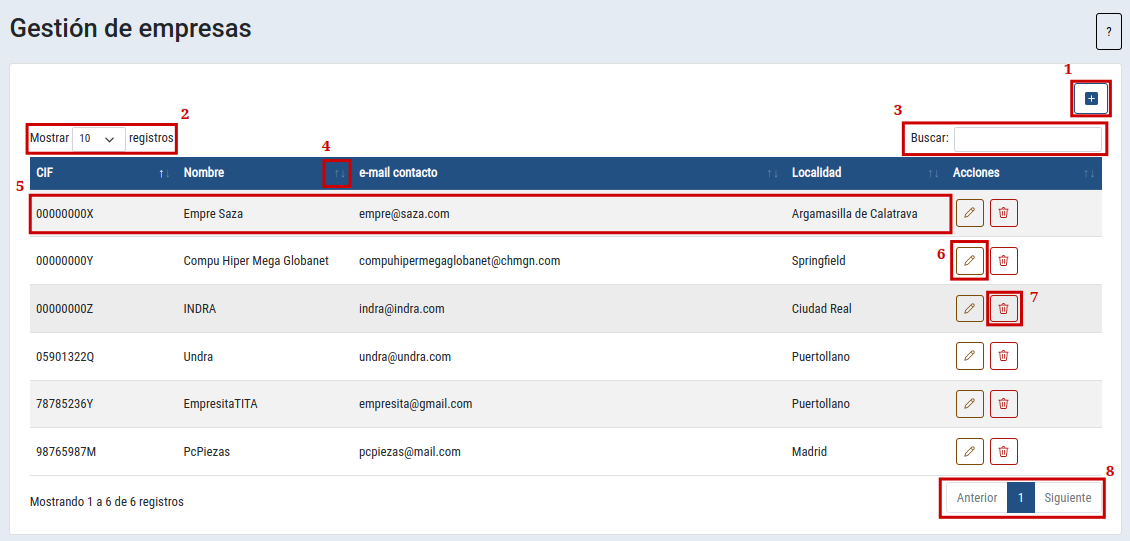
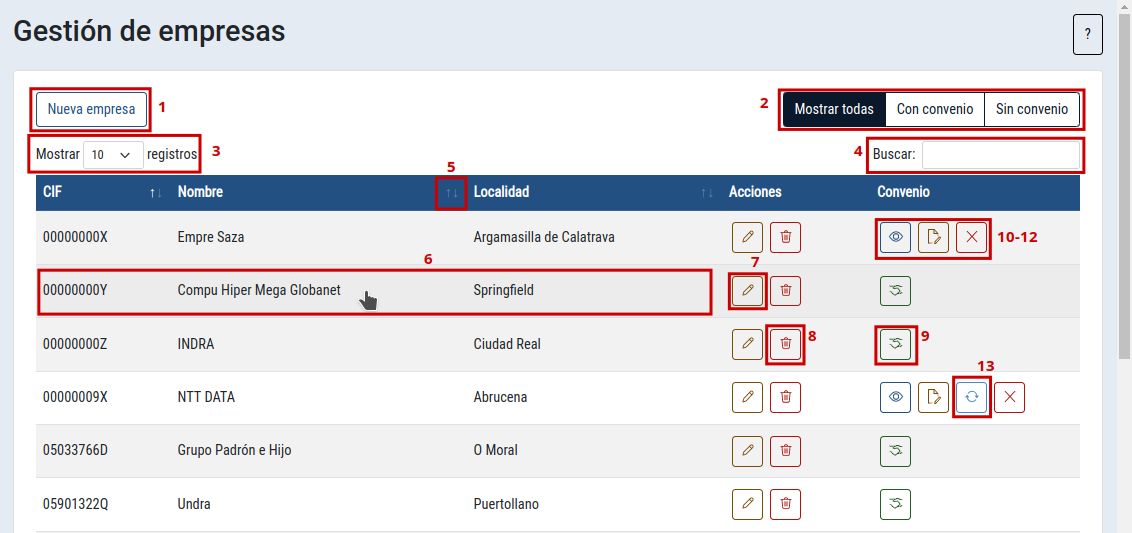
Manuales registro y crud actualizados

diff --git a/src/app/modules/manuales/manual-gestion-empresas/manual-gestion-empresas.component.html b/src/app/modules/manuales/manual-gestion-empresas/manual-gestion-empresas.component.html
@@ -25,7 +25,12 @@
       </div>
     </li>
     <li class="list-group-item">
-      <h2 class="fs-4 text-info">2. Cantidad de registros a mostrar</h2>
+      <h2 class="fs-4 text-info">2. Filtros según convenio</h2>
+      <p>Puede clickear en cualquiera de los tres botones de la esquina superior derecha para mostrar todas las
+        empresas, sólo las que tienen convenio con su centro o sólo las que no lo tienen</p>
+    </li>
+    <li class="list-group-item">
+      <h2 class="fs-4 text-info">3. Cantidad de registros a mostrar</h2>
       <div class="d-flex justify-content-between align-items-center">
         <div>
           <p>Clickee sobre el desplegable para seleccionar cuántos registros quiere ver en cada página</p>
@@ -36,7 +41,7 @@
       </div>
     </li>
     <li class="list-group-item">
-      <h2 class="fs-4 text-info">3. Búsqueda por cualquier campo</h2>
+      <h2 class="fs-4 text-info">4. Búsqueda por cualquier campo</h2>
       <p>Busque empresas registradas usando la barra de búsquedas en la parte superior derecha de la tabla</p>
       <img src="/assets/Manuales/gestion-empresas/busqueda.gif"
         alt="GIF que ejemplifica la búsqueda en la tabla de gestión de empresas"
@@ -45,7 +50,7 @@
       </p>
     </li>
     <li class="list-group-item">
-      <h2 class="fs-4 text-info">4. Ordenar según campo</h2>
+      <h2 class="fs-4 text-info">5. Ordenar según campo</h2>
       <p>Puede ordenar las empresas en orden ascendente o descendente de cualquiera de los campos de la tabla clickeando
         sobre el título de la columna</p>
       <img src="/assets/Manuales/gestion-empresas/screenshot_03.png"
@@ -57,14 +62,14 @@
         class="img-fluid me-3 border border-dark">
     </li>
     <li class="list-group-item">
-      <h2 class="fs-4 text-info">5. Ver empresa en detalle</h2>
+      <h2 class="fs-4 text-info">6. Ver empresa en detalle</h2>
       <p>Clickee sobre una fila de la tabla para ver los datos de la empresa correspondiente en detalle</p>
       <img src="/assets/Manuales/gestion-empresas/screenshot_05.png"
         alt="Captura de pantalla que muestra el cursor sobre una fila de la tabla"
         class="img-fluid me-3 border border-dark">
     </li>
     <li class="list-group-item">
-      <h2 class="fs-4 text-info">6. Editar empresa</h2>
+      <h2 class="fs-4 text-info">7. Editar empresa</h2>
       <div class="d-flex justify-content-between align-items-center">
         <img src="/assets/Manuales/gestion-empresas/screenshot_06.png"
           alt="Captura de pantalla con el botón para editar una empresa" class="img-fluid me-3">
@@ -77,7 +82,7 @@
       </div>
     </li>
     <li class="list-group-item">
-      <h2 class="fs-4 text-info">7. Eliminar empresa</h2>
+      <h2 class="fs-4 text-info">8. Eliminar empresa</h2>
       <div class="d-flex justify-content-between align-items-center">
         <img src="/assets/Manuales/gestion-empresas/screenshot_07.png"
           alt="Captura de pantalla con el botón para eliminar una empresa" class="img-fluid me-3">
@@ -89,8 +94,80 @@
       </div>
     </li>
     <li class="list-group-item">
-      <h2 class="fs-4 text-info">8. Navegar por las páginas de datos</h2>
-      <p>Utilice los botones de la esquina inferior derecha de la pantalla para navegar por las páginas de datos</p>
+      <h2 class="fs-4 text-info">9. Hacer convenio o acuerdo</h2>
+      <div class="d-flex justify-content-between align-items-center mb-3">
+        <img src="/assets/Manuales/gestion-empresas/screenshot_08.png"
+          alt="Captura de pantalla con el botón para hacer convenio o acuerdo" class="img-fluid me-3">
+        <div>
+          <p>Clickee sobre el botón de convenio (manos estrechándose) para establecer los términos del convenio entre su
+            centro de estudios y la empresa correspondiente</p>
+          <p class="m-0">Se abrirá una ventana modal que le permitirá introducir los datos del convenio y subir el Anexo
+            0 o 0A pertinente</p>
+        </div>
+      </div>
+      <p>En la parte superior del modal puede introducir el número de convenio (consúltelo con su centro) y la fecha de
+        inicio del mismo. El resto de campos se calcularán automáticamente.</p>
+      <img src="/assets/Manuales/gestion-empresas/convenio_01.png"
+        alt="Captura de pantalla: modal para hacer convenio con los datos desplegados"
+        class="img-fluid me-3 border border-dark mb-2">
+      <p>Si no dispone del Anexo 0 o 0A, deje la casilla "Dispongo del documento" desmarcada y rellene el formulario.
+        Las secciones del centro de estudios y de la empresa aparecerán rellenas con los datos del sistema, pero puede
+        editarlas en caso de que sea necesario.</p>
+      <img src="/assets/Manuales/gestion-empresas/convenio_02.png"
+        alt="Captura de pantalla: modal para hacer convenio en modo subir fichero"
+        class="img-fluid me-3 border border-dark mb-2">
+      <p>Si dispone del documento, marque la casilla "Dispongo del documento" y suba el archivo en formato PDF</p>
+      <p class="mt-1">Independientemente de la opción que elija, podrá guardar los cambios usando el botón en la parte
+        inferior del modal.</p>
+      <p class="mt-1">Si ha generado el documento, podrá descargarlo tras finalizar el proceso.</p>
+    </li>
+    <li class="list-group-item">
+      <h2 class="fs-4 text-info">10. Visualizar convenio o acuerdo</h2>
+      <div class="d-flex justify-content-between align-items-center mb-3">
+        <img src="/assets/Manuales/gestion-empresas/screenshot_09.png"
+          alt="Captura de pantalla con el botón para visualizar el convenio o acuerdo" class="img-fluid me-3">
+        <div>
+          <p>Clickee sobre el botón de visualización (ojo) para ver los términos del convenio entre su
+            centro de estudios y la empresa correspondiente y poder descargar el anexo.</p>
+          <p class="m-0">Si el documento no se descarga, vuelva a generarlo (ver editar convenio o acuerdo)</p>
+        </div>
+      </div>
+    </li>
+    <li class="list-group-item">
+      <h2 class="fs-4 text-info">11. Editar convenio o acuerdo</h2>
+      <div class="d-flex justify-content-between align-items-center mb-3">
+        <img src="/assets/Manuales/gestion-empresas/screenshot_10.png"
+          alt="Captura de pantalla con el botón para editar el convenio o acuerdo" class="img-fluid me-3">
+        <div>
+          <p>Clickee sobre el botón de edición de documento (folio con lápiz) para editar el convenio entre su
+            centro de estudios y la empresa correspondiente, con opción de re-subir el documento.</p>
+          <p class="m-0">La ventana modal tiene el mismo funcionamiento que la de hacer convenio.</p>
+        </div>
+      </div>
+    </li>
+    <li class="list-group-item">
+      <h2 class="fs-4 text-info">12. Anular convenio o acuerdo</h2>
+      <div class="d-flex justify-content-between align-items-center mb-3">
+        <img src="/assets/Manuales/gestion-empresas/screenshot_11.png"
+          alt="Captura de pantalla con el botón para anular el convenio o acuerdo" class="img-fluid me-3">
+        <div>
+          <p>Clickee sobre el botón con un aspa para anular el convenio entre su
+            centro de estudios y la empresa correspondiente, previa confirmación.</p>
+          <p class="m-0">Esto eliminará el convenio del sistema y deshabilitará el anexo correspondiente.</p>
+        </div>
+      </div>
+    </li>
+    <li class="list-group-item">
+      <h2 class="fs-4 text-info">13. Renovar convenio o acuerdo</h2>
+      <div class="d-flex justify-content-between align-items-center mb-3">
+        <img src="/assets/Manuales/gestion-empresas/screenshot_12.png"
+          alt="Captura de pantalla con el botón para renovar el convenio o acuerdo" class="img-fluid me-3">
+        <div>
+          <p>Clickee sobre el botón de renovación para renovar el convenio entre su
+            centro de estudios y la empresa correspondiente.</p>
+          <p class="m-0">La ventana modal tiene un funcionamiento muy similar a la de hacer o editar convenio.</p>
+        </div>
+      </div>
     </li>
   </ul>
 </div>

diff --git a/src/app/modules/manuales/manual-registro-empresas/manual-registro-empresas.component.html b/src/app/modules/manuales/manual-registro-empresas/manual-registro-empresas.component.html
@@ -9,7 +9,7 @@
       <p>En esta serie de pantallas podrá registrar una empresa en la aplicación para contar con ella en el proceso de
         las FCT. Al terminar el registro, se generará el Anexo 0 o 0A, de convenio entre su centro de estudios y la
         empresa que registre</p>
-      <p class="m-0">Para realizar el registro necesitará los datos de la empresa que aparecen en el Anexo 0:</p>
+      <p class="m-0">Para realizar el registro necesitará los siguientes datos:</p>
       <ul class="mb-2">
         <li>
           <span class="fw-bold">Del representante legal</span>: DNI, nombre completo y correo electrónico.
@@ -21,6 +21,10 @@
         <li>
           <span class="fw-bold">Del centro de trabajo</span>: localidad, provincia, dirección y código postal.
         </li>
+        <li>
+          <span class="fw-bold">Ciclos de interés</span>: Ciclos Formativos de los que la empresa quiere alumnos en
+          prácticas.
+        </li>
       </ul>
       <p>En caso de disponer de varios centros de trabajo, registre los datos del centro de trabajo principal</p>
     </li>
@@ -28,8 +32,8 @@
       <h2 class="fs-4 text-info">Vistazo general</h2>
       <img class="img-fluid mb-2" src="/assets/Manuales/registro-empresas/screenshot_00.png"
         alt="Captura de pantalla con la vista del registro de empresas (representante legal)">
-      <p>El registro de empresas está dividido en cuatro partes: tres para introducir datos y una cuarta que le servirá
-        para revisar la veracidad de los datos y confirmarlos</p>
+      <p>El registro de empresas está dividido en cinco partes: tres para introducir datos, una cuarta para asignar
+        ciclos a la empresa y quina quinta que le servirá para revisar la veracidad de los datos y confirmarlos</p>
       <p class="m-0">El progreso del registro se marca en la parte superior de la pantalla:</p>
       <img class="img-fluid mb-2" src="/assets/Manuales/registro-empresas/screenshot_01.png"
         alt="Captura de pantalla: barra de progreso situada en 1. Representante">
@@ -42,39 +46,42 @@
       <p>La barra de progreso irá avanzando según avance en el registro.</p>
       <img class="img-fluid mb-2" src="/assets/Manuales/registro-empresas/screenshot_03.png"
         alt="Captura de pantalla: barra de progreso explicada en detalle. Las secciones anteriores son más oscuras, la actual más clara">
-      <p>Podrá volver a las secciones previas clickeando sobre la barra de progreso, pero no podrá avanzar a las
-        siguientes sin completar antes la parte del formulario en la que se encuentra</p>
+      <p>Podrá volver a las secciones previas clickeando sobre la barra de progreso. También podrá volver a secciones
+        siguientes si ya estaban habilitadas anteriormente</p>
     </li>
     <li class="list-group-item">
       <h2 class="fs-4 text-info">2. Completar el formulario</h2>
-      <p>Introduzca los datos de formulario correctamente y clickee en "Aceptar y continuar" para avanzar a la siguiente sección</p>
-      <img class="img-fluid mb-2" src="/assets/Manuales/registro-empresas/relleno_formulario.gif"
-        alt="Vídeo demostrativo: rellene los datos correctamente y clickee en 'Aceptar y continuar' para avanzar el registro">
+      <p>Introduzca los datos de formulario correctamente y clickee en "Aceptar y continuar" para avanzar a la siguiente
+        sección</p>
       <p>Si introduce algún dato incorrectamente, se le avisará para que pueda corregirlo</p>
     </li>
     <li class="list-group-item">
-      <h2 class="fs-4 text-info">3. Resumen</h2>
-      <p>En esta sección aparecerán todos los valores insertados anteriormente, ofreciendo la posibilidad de comprobarlos antes de registrar la empresa.</p>
-      <img class="img-fluid mb-2" src="/assets/Manuales/registro-empresas/resumen.png"
+      <h2 class="fs-4 text-info">3. Asignación de ciclos</h2>
+      <img class="img-fluid mb-2" src="/assets/Manuales/registro-empresas/ciclos01.png"
+        alt="Captura de pantalla: vista de selección de ciclos.">
+      <p>Clickee sobre los ciclos en los que la empresa que está registrando está interesada. Puede ver el nombre
+        completo de cada ciclo manteniendo el cursor sobre él</p>
+      <p>Puede filtrar los ciclos por familia profesional</p>
+      <p>Los ciclos seleccionados aparecerán en la parte superior del panel de ciclos. Puede deseleccionar ciclos
+        volviendo a pulsar sobre ellos o deseleccionarlos todos pulsando en "Limpiar selección"</p>
+      <p>Finalice la asignación de ciclos clickeando en "Aceptar y continuar"</p>
+    </li>
+    <li class="list-group-item">
+      <h2 class="fs-4 text-info">4. Resumen</h2>
+      <p>En esta sección aparecerán todos los valores insertados anteriormente, ofreciendo la posibilidad de
+        comprobarlos antes de registrar la empresa.</p>
+      <img class="img-fluid mb-2" src="/assets/Manuales/registro-empresas/boton_registrar.png"
         alt="Captura de pantalla: vista general de la ventana resumen.">
-      <p>Gracias a la barra de progreso, puede retroceder a cualquiera de las 3 partes anteriores del registro (Representante legal, Empresa y Ubicación) tan solo clickeando en ella,
-        para cambiar el valor de cualquier dato introducido anteriormente.
+      <p>Gracias a la barra de progreso, puede retroceder a cualquiera de las partes anteriores del registro
+        tan solo clickeando en ella para cambiar el valor de cualquier dato introducido anteriormente.
       </p>
       <img class="img-fluid mb-2" src="/assets/Manuales/registro-empresas/breadcrum.png"
         alt="Captura de pantalla: barra de progreso.">
-      <p>Si quiere cambiar el correo electrónico de la empresa que ha descrito anteriormente, clickee en "Empresa", y ahí le establece un nuevo valor al correo electrónico:</p>
-      <img class="img-fluid mb-2" src="/assets/Manuales/registro-empresas/cambio_correo.png"
-      alt="Captura de pantalla: cambio de correo en el apartado 'Empresa'.">
-      <p>Deberá darle al botón "Continuar y Aceptar" cada vez que termine de modificar los datos que desee de los correspondientes apartados hasta llegar de nuevo al resumen, para comprobar de nuevo los valores. </p>
-      <p>Una vez revisados todos los datos, pulsar el botón "Registrar empresa" para guardar los datos insertados y registrar la empresa.</p>
-      <img class="img-fluid mb-2" src="/assets/Manuales/registro-empresas/boton_registrar.png"
-      alt="Captura de pantalla: Boton Registrar empresa en la vista resumen.">
-      <p>El último paso es elegir si se quiere descargar o no el Anexo generado.</p>
-      <img class="img-fluid mb-2" src="/assets/Manuales/registro-empresas/confirmacion.png"
-      alt="Captura de pantalla: Modal para confirmar si descargar o no el documento.">
-      <p>Si decidimos descargar el documento, aparecerá el archivo listo para guardarlo.</p>
-      <img class="img-fluid mb-2" src="/assets/Manuales/registro-empresas/anexo_descargado.png"
-      alt="Captura de pantalla: Imagen del archivo descargado.">
+      <p>Con el registro finalizado, tiene la opción de establecer los términos del convenio en el momento o dejarlo
+        para más adelante. Para ver en detalle cómo rellenar los datos de convenio, visite el manual de "Gestión de
+        Empresas"</p>
+      <img class="img-fluid mb-2" src="/assets/Manuales/registro-empresas/dialogo_convenio.png"
+        alt="Captura de pantalla: diálogo de convenio, en el que se da la opción al usuario de hacer el convenio inmediatamente o más tarde.">
     </li>
   </ul>
 </div>
